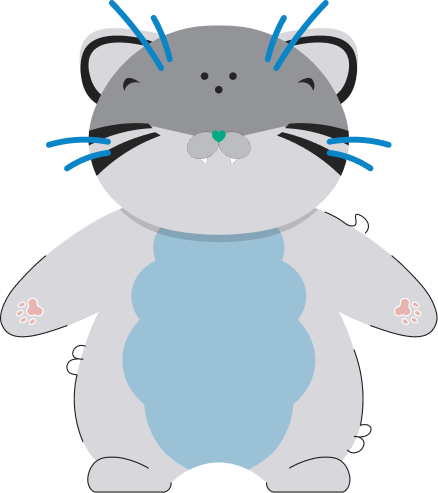
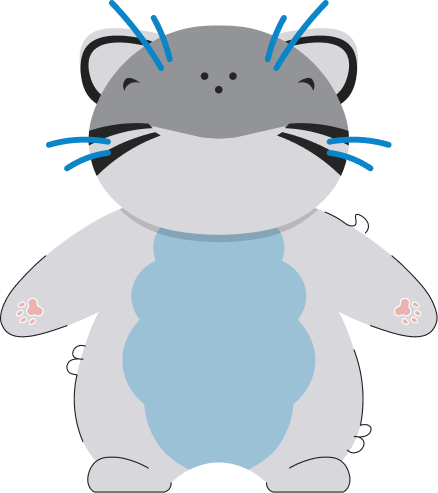
final

Changed region(s): [[0.4155, 0.2434, 0.5936, 0.3347]]

diff --git a/components/cat-creator/cat-creator-types.tsx b/components/cat-creator/cat-creator-types.tsx
@@ -2,12 +2,11 @@ export type PartKey =
   // | "eyebrows"
   // | "mouth"
   // | "fang"
-  // | "nose"
+  | "nose"
   // | "naruto_beard"
   // | "beard"
   | "cloth"
   | "eye"
-  // | "stain";
 
 export type PartConfig = {
   label: string;
@@ -49,12 +48,11 @@ export const DRAW_ORDER: readonly PartKey[] = [
   // "eyebrows",
   // "mouth",
   // "fang",
-  // "nose",
+  "nose",
   // "naruto_beard",
   // "beard",
   "eye",
-  "cloth"
-  // "stain",
+  "cloth",
 ];
 
 export const ARTBOARD = { w: 1327, h: 1133 };
@@ -75,11 +73,11 @@ export const PARTS: Record<PartKey, PartConfig> = {
   //   position: [0.5759, 0.2948, 0.0897, 0.0866],
   //   options: ["1.png", "2.png", "3.png", "4.png"],
   // },
-  // nose: {
-  //   label: "Nose",
-  //   position: [0.5336, 0.2383, 0.1598, 0.1024],
-  //   options: ["1.svg", "2.png", "3.png"],
-  // },
+  nose: {
+    label: "Muzzle",
+    position: [0.42, 0.25, 0.1598, 0.16],
+    options: ["1.png", "2.png", "3.png", "4.png", "5.png"],
+  },
   // naruto_beard: {
   //   label: "Naruto Beard",
   //   position: [0.3068, 0.1942, 0.5872, 0.2233],
@@ -101,11 +99,7 @@ export const PARTS: Record<PartKey, PartConfig> = {
     position: [0, 0, 1, 1],
     options: ["1.png", "2.png"],
   },
-  // stain: {
-  //   label: "Stain",
-  //   position: [0.5389, 0.0856, 1, 1],
-  //   options: ["1.svg"],
-  // },
+
 };
 
 export const BASE_SRC = "/create-cat/base/base.png";

diff --git a/components/cat-creator/editor/optionEditor.tsx b/components/cat-creator/editor/optionEditor.tsx
@@ -22,7 +22,7 @@ export const Option = ({ layers, partKey, file, setLayer }: OptionProps) => {
         }
         setLayer(partKey, path);
       }}
-      className={`p-2 border rounded relative overflow-hidden bg-white `}
+      className={`p-2 border rounded relative overflow-hidden  `}
     >
       <img src={path} className="w-14 h-14 object-contain" />
       {active && (
